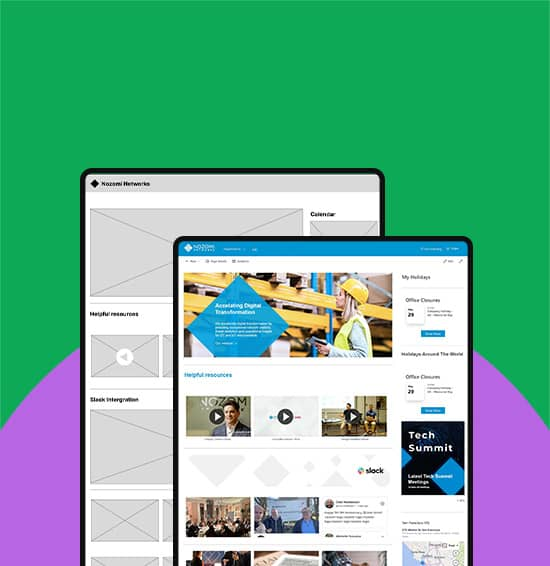
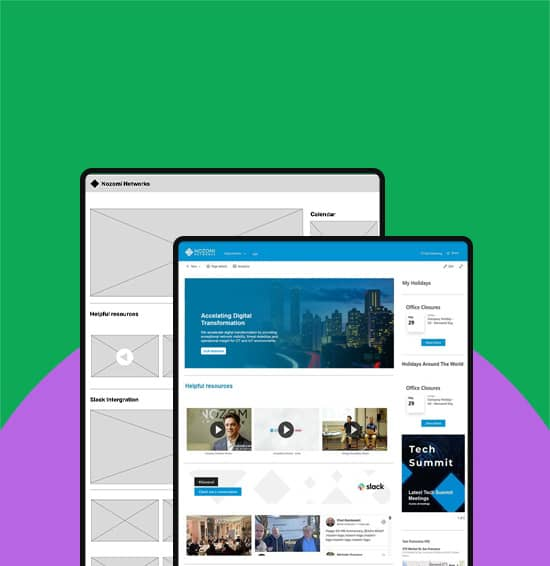
NN web update

Changed region(s): [[0.3091, 0.4205, 0.8655, 1.0]]

diff --git a/mywork/graphicdesign/index.html b/mywork/graphicdesign/index.html
@@ -57,7 +57,7 @@
       The sites received excited and positive feedback once completed with traffic drastically increasing. Many other department leadership was also interested and driven in using Sharepoint as their information channel. <br>
       <br>
       Tools: Figma and Photoshop
-    <img class="work-img2" src="../../assets/nozominetworks-sharepoint.jpg" alt="Image of a website with blue color and people">
+    <img class="work-img2" src="../../assets/nozominetworks-sharepoint-3.jpg" alt="Image of a website with blue color and people">
     <br>
     <br id="grab">
     <br>
